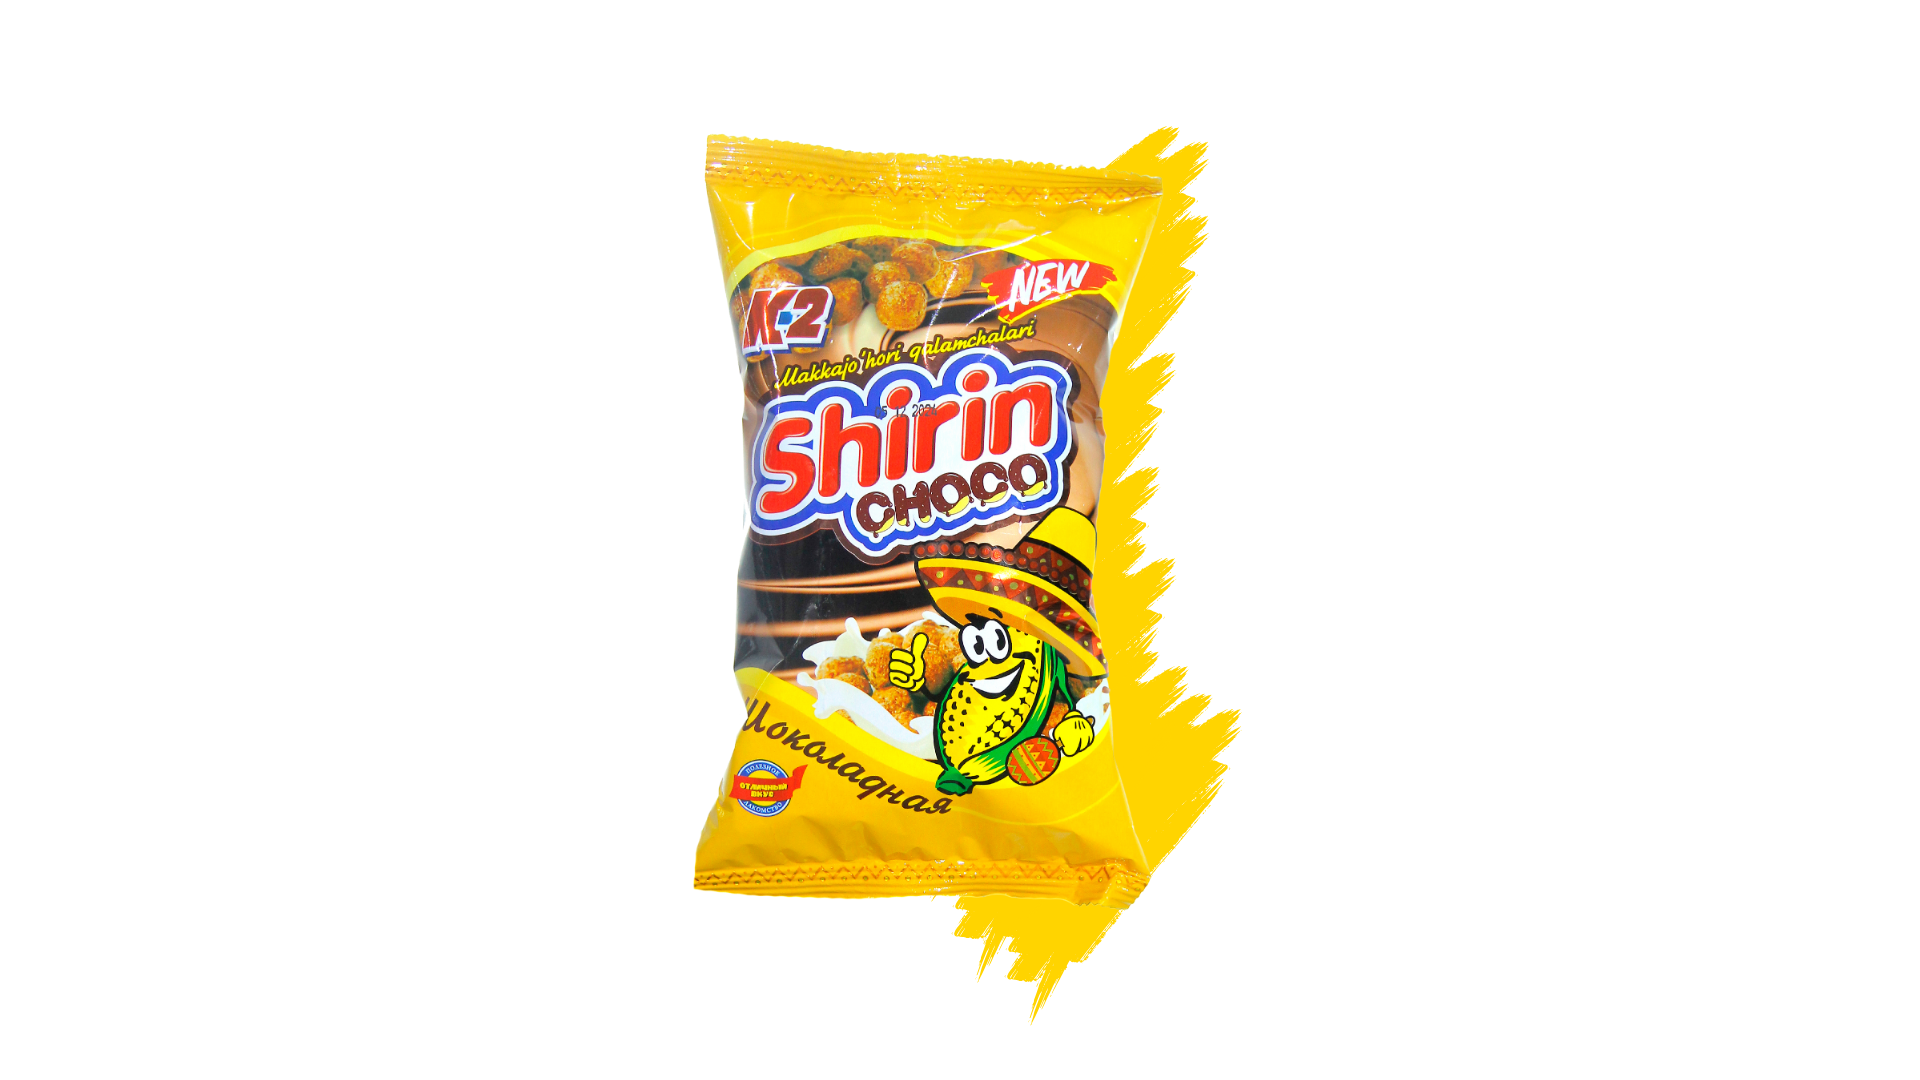
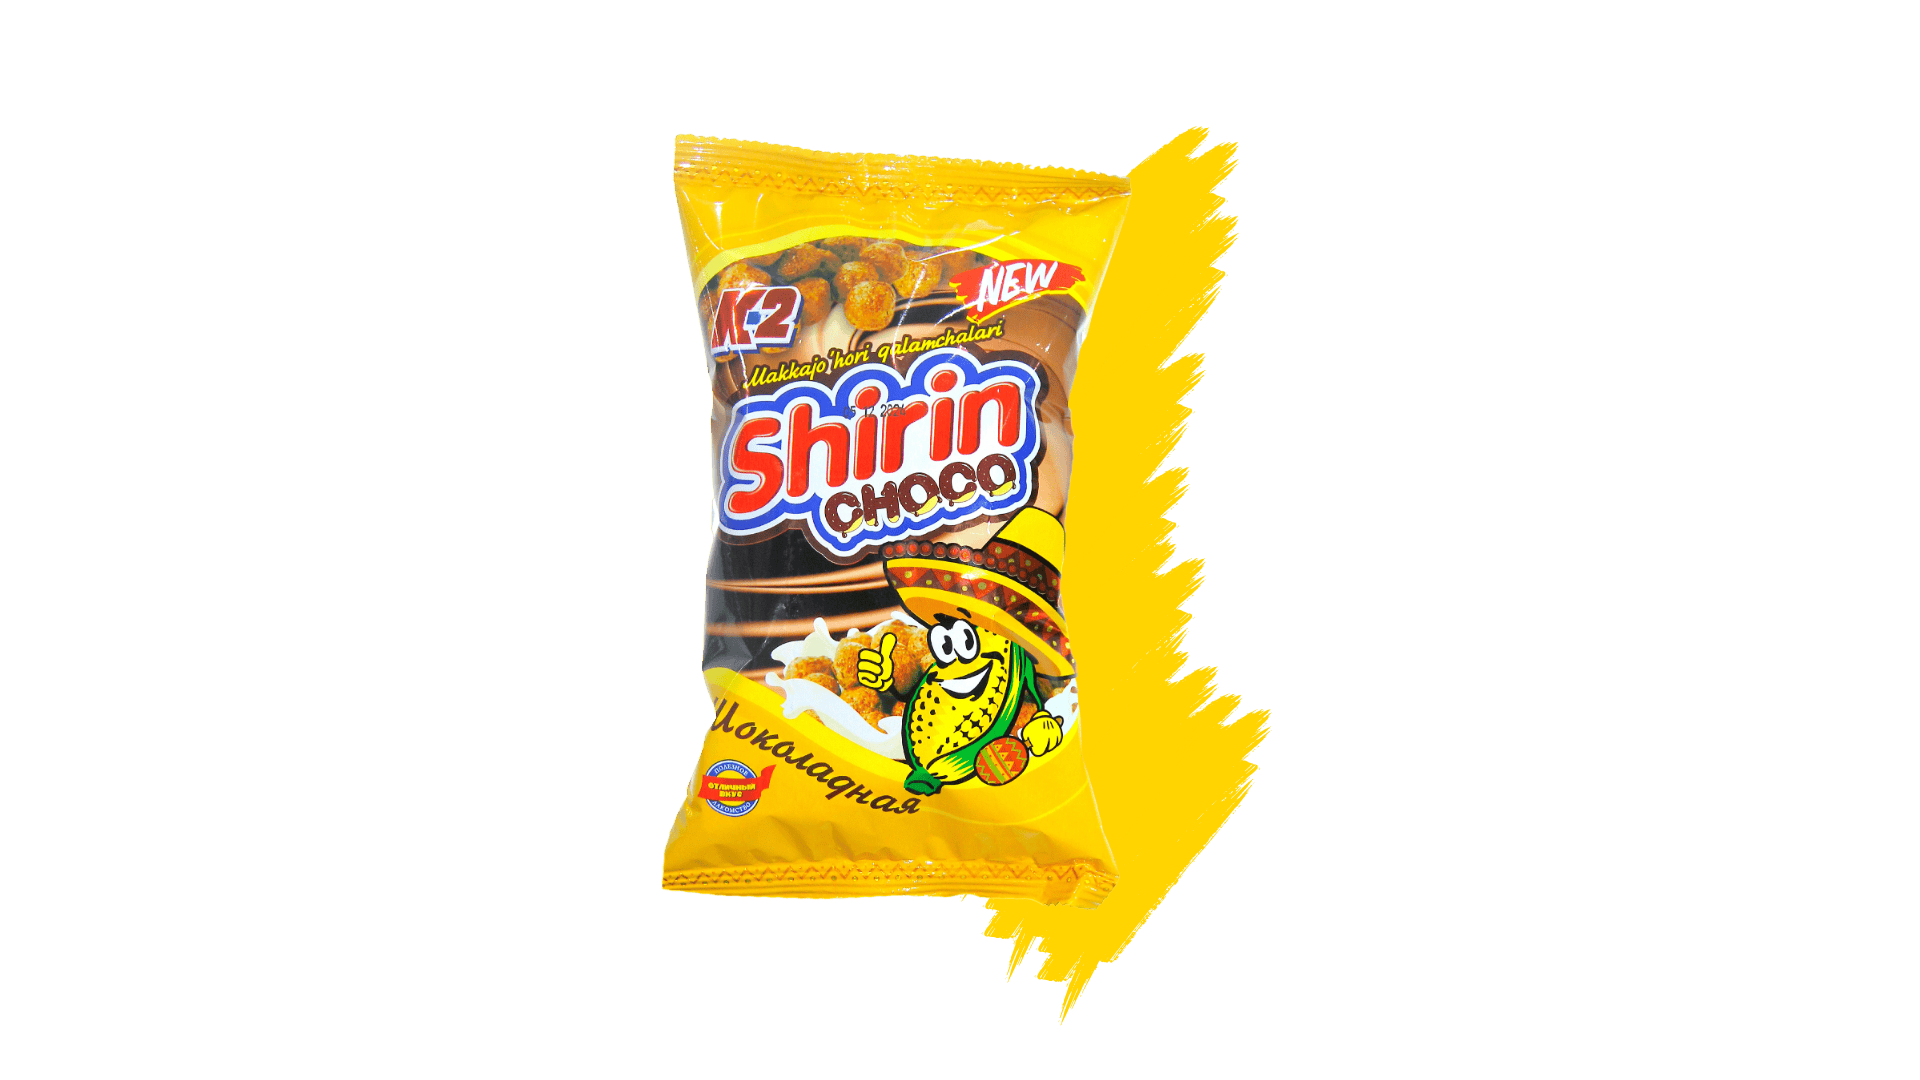
Your commit message

Changed region(s): [[0.3438, 0.1222, 0.6562, 0.9472]]

diff --git a/styles.css b/styles.css
@@ -432,7 +432,7 @@ body {
 }
 
 .hero-thumbnails img {
-  width: 190%;
+  width: 150%;
   /* Масштабируем изображение */
   height: auto;
   /* Сохраняем пропорции */
